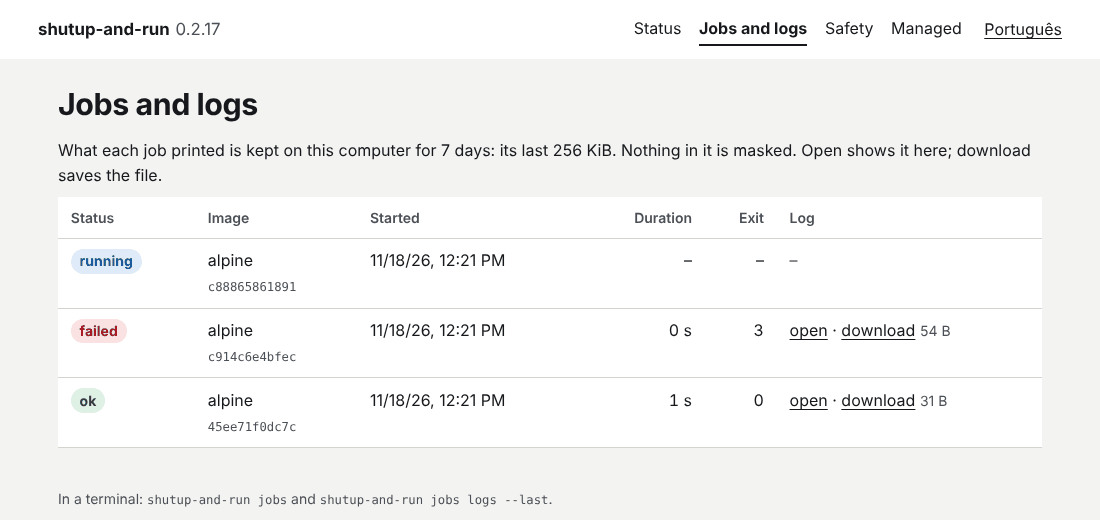
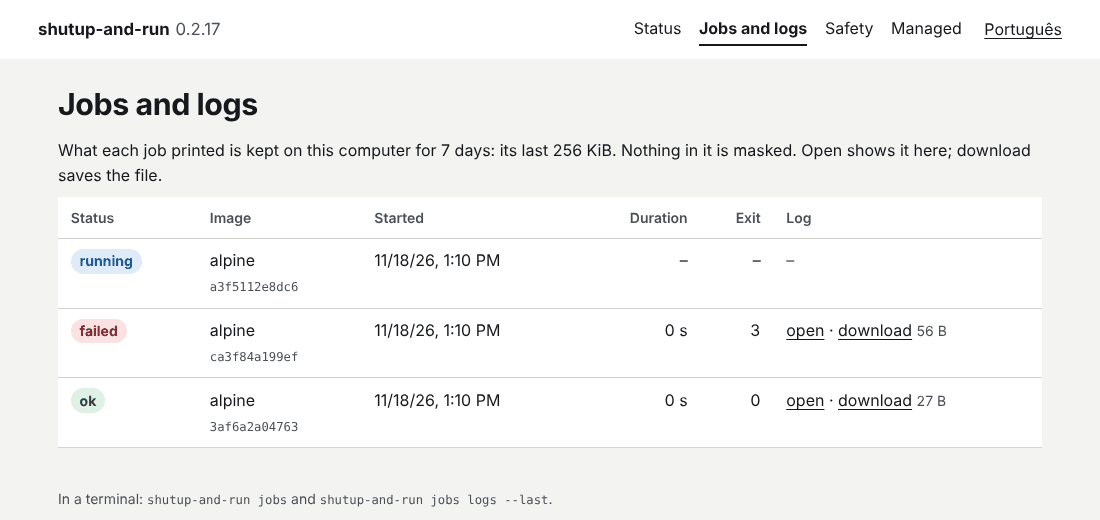
First host-feed line carries the CPU use; scripts/screenshots.sh; 0.2.18 (#33)
The Windows supervisor's first line to the service now takes its second CPU reading one second after the first (feed_cpu), so installs, updates and restarts no longer show SAFETY_HOST_UNKNOWN and ask the owner for an authorization nobody needs; the Windows CI checks it after an install, an update and a rollback. scripts/screenshots.sh regenerates the README's pictures of the local page against Docker with Playwright, refusing a Docker with other shutup-and-run containers and removing only what it made.

Claude-Session: https://claude.ai/code/session_011MRzQGa2n2Ssqv9Yt8TiTW

diff --git a/scripts/screenshots.js b/scripts/screenshots.js
@@ -1,0 +1,36 @@
+// Used by scripts/screenshots.sh: node screenshots.js BASE_URL WORK_DIR OUT_DIR
+const { chromium } = require('playwright');
+
+const [base, work, out] = process.argv.slice(2);
+
+(async () => {
+  const browser = await chromium.launch();
+  const shot = async (lang, name, path, viewport, scheme, options) => {
+    const context = await browser.newContext({
+      viewport,
+      colorScheme: scheme,
+      deviceScaleFactor: 1,
+      httpCredentials: { username: 'admin', password: 'demo-password' },
+    });
+    await context.addCookies([{ name: 'lang', value: lang, url: base }]);
+    const page = await context.newPage();
+    await page.goto(path.startsWith('file://') ? path : base + path);
+    await page.screenshot({ path: `${out}/${lang}-${name}.png`, ...options });
+    await context.close();
+  };
+  const desk = { width: 1100, height: 900 };
+  for (const lang of ['en', 'pt']) {
+    // The top of the status page: the state, the facts, the last jobs.
+    await shot(lang, 'status', '/', desk, 'light', { fullPage: true, clip: { x: 0, y: 0, width: 1100, height: 870 } });
+    await shot(lang, 'jobs', '/local/logs', { width: 1100, height: 520 }, 'light', {});
+    await shot(lang, 'advanced', '/local/advanced', desk, 'light', {});
+    await shot(lang, 'dark', '/', { width: 1100, height: 760 }, 'dark', {});
+    await shot(lang, 'phone', '/', { width: 390, height: 844 }, 'light', {});
+    await shot(lang, 'authorization', `file://${work}/auth-${lang}.html`, { width: 1100, height: 800 }, 'light',
+      { clip: { x: 0, y: 0, width: 1100, height: 540 } });
+  }
+  await browser.close();
+})().catch((err) => {
+  console.error(err);
+  process.exit(1);
+});

diff --git a/src/wsl.rs b/src/wsl.rs
@@ -2729,18 +2729,10 @@ fn run_service(log: &Logger) -> WslResult<Option<i32>> {
     // ten seconds. The thread ends when the service does and the pipe breaks.
     if let Some(mut stdin) = child.stdin.take() {
         std::thread::spawn(move || {
-            // CPU use is the difference between two readings of the totals.
-            let mut before = host_cpu_times();
-            loop {
-                let now = host_cpu_times();
-                let busy = before.zip(now).and_then(|(a, b)| busy_percent(a, b));
-                before = now;
+            feed_cpu(host_cpu_times, std::thread::sleep, |busy| {
                 let line = crate::host::line(&host_feed(busy));
-                if stdin.write_all(line.as_bytes()).is_err() || stdin.flush().is_err() {
-                    break;
-                }
-                std::thread::sleep(crate::host::FEED_EVERY);
-            }
+                stdin.write_all(line.as_bytes()).is_ok() && stdin.flush().is_ok()
+            });
         });
     }
     let a = log.clone();
@@ -2926,6 +2918,32 @@ fn host_cpu_times() -> Option<(u64, u64)> {
 
 /// From two `(idle, total)` readings: the share of the time between them
 /// that the processors were not idle. None when no time passed.
+/// How long apart the first two readings of the CPU totals are.
+const CPU_FIRST_SAMPLE: Duration = Duration::from_secs(1);
+
+/// The CPU use of each host-feed line. It is the difference between two
+/// readings of the totals, so the first line waits for a second reading a
+/// moment after the first: a first line without it reads as "Windows did not
+/// report CPU use" and asks the owner for an authorization nobody needs.
+/// `send` returns false when the service is gone.
+pub(crate) fn feed_cpu(
+    mut read: impl FnMut() -> Option<(u64, u64)>,
+    mut sleep: impl FnMut(Duration),
+    mut send: impl FnMut(Option<u64>) -> bool,
+) {
+    let mut before = read();
+    sleep(CPU_FIRST_SAMPLE);
+    loop {
+        let now = read();
+        let busy = before.zip(now).and_then(|(a, b)| busy_percent(a, b));
+        before = now;
+        if !send(busy) {
+            break;
+        }
+        sleep(crate::host::FEED_EVERY);
+    }
+}
+
 pub(crate) fn busy_percent(before: (u64, u64), now: (u64, u64)) -> Option<u64> {
     let total = now.1.checked_sub(before.1).filter(|total| *total > 0)?;
     let idle = now.0.checked_sub(before.0)?.min(total);
@@ -3974,6 +3992,27 @@ mod tests {
     /// The first defect: the old service kept running, on the old config,
     /// after the install wrote a new one. The stop script returns only when
     /// no process of that name is left.
+    #[test]
+    fn the_first_host_feed_line_already_has_the_cpu_use() {
+        // (idle, total) as GetSystemTimes counts them.
+        let mut readings = vec![Some((0, 0)), Some((50, 100)), Some((80, 200)), None].into_iter();
+        let mut slept = Vec::new();
+        let mut sent = Vec::new();
+        feed_cpu(
+            || readings.next().flatten(),
+            |d| slept.push(d),
+            |busy| {
+                sent.push(busy);
+                sent.len() < 3
+            },
+        );
+        // 50 of 100 idle, then 30 of 100: the first line is not empty.
+        assert_eq!(sent, vec![Some(50), Some(70), None]);
+        assert_eq!(slept[0], CPU_FIRST_SAMPLE);
+        assert!(slept[1..].iter().all(|d| *d == crate::host::FEED_EVERY));
+        assert!(CPU_FIRST_SAMPLE < crate::host::FEED_EVERY);
+    }
+
     #[test]
     fn the_exe_and_the_binary_in_the_distribution_must_be_one_release() {
         let same = version_check("0.2.15", Some("0.2.15"));

diff --git a/src/status.rs b/src/status.rs
@@ -3350,6 +3350,38 @@ mod tests {
         }
     }
 
+    /// Not a check. `scripts/screenshots.sh` runs it to render a state a
+    /// test machine does not reach by itself: a small PC waiting for its
+    /// owner. Writes `auth-en.html` and `auth-pt.html` into the folder named
+    /// by SHUTUP_AND_RUN_SHOTS_DIR, and does nothing without it.
+    #[test]
+    #[ignore]
+    fn render_states_for_screenshots() {
+        use crate::safety::{Admission, Finding, Level, Report};
+        let Ok(dir) = std::env::var("SHUTUP_AND_RUN_SHOTS_DIR") else {
+            return;
+        };
+        let asked = Report {
+            applies: true,
+            level: Level::Warning,
+            admission: Admission::AuthorizationRequired,
+            reasons: vec![Finding {
+                code: crate::safety::SMALL_MACHINE.into(),
+                level: Level::Warning,
+                detail: "7.6 GiB of memory, 2 processors".into(),
+            }],
+            needs_authorization: vec![crate::safety::SMALL_MACHINE.into()],
+            ..Default::default()
+        };
+        for (lang, tag) in [(Lang::En, "en"), (Lang::Pt, "pt")] {
+            let mut v = view(lang, Some((0, 1)), false);
+            v.worker = "DESK-07";
+            v.safety = Some(&asked);
+            v.last_poll = Some((1_794_960_000, "nothing"));
+            std::fs::write(Path::new(&dir).join(format!("auth-{tag}.html")), render(&v)).unwrap();
+        }
+    }
+
     #[test]
     fn the_page_says_the_state_and_whether_the_pc_can_be_turned_off() {
         let idle = render(&view(Lang::Pt, Some((0, 2)), false));

diff --git a/docs/DECISIONS.md b/docs/DECISIONS.md
@@ -480,5 +480,13 @@ The owner named it `shutup-and-run`. It is the whole product: send a job, get a 
 - The settings are grouped by subject, each field with a short label and one line of help. Fields behind the admin login are marked as protected. The list of jobs is the history's last 100 jobs with their logs, plus any log whose job the history no longer has.
 - Nothing else changed: the routes, the forms and their field names, the rules of the page, the config and the contract.
 
-**Cost.** About 43 KB more in the binary. The page is longer on a phone, where tables become stacked rows. The screenshots in `docs/screenshots/local-page/` show it at 0.2.16 data and will age.
+**Cost.** About 43 KB more in the binary. The page is longer on a phone, where tables become stacked rows. The screenshots in `docs/screenshots/local-page/` show it at 0.2.16 data and will age; the README's own come from `scripts/screenshots.sh`, which makes them again.
+
+## The first host-feed line waits a second for the CPU reading (0.2.18)
+
+**Context.** The PC's CPU use is the difference between two readings of the totals `GetSystemTimes` keeps. The supervisor took both readings back to back for its first line, so that line never had a CPU figure. The safety assessment reads a missing figure as "Windows did not report CPU use" (`SAFETY_HOST_UNKNOWN`), a warning, and every install, update and restart asked the owner for an authorization for about ten seconds, until the next line. The doctor that closes an install showed it on every Windows CI run.
+
+**Decision.** The first line is sent one second after the first reading (`CPU_FIRST_SAMPLE`), with the CPU use of that second. Every later line is the same as before, ten seconds apart. The rule that a missing reading warns, never passes, is unchanged.
+
+**Cost.** The service gets its first line from Windows one second later.
 

diff --git a/README.pt-BR.md b/README.pt-BR.md
@@ -415,7 +415,7 @@ Só `image` é obrigatório. Campos desconhecidos são recusados. `job_key` torn
 **Pull.** Com `poll_url` definida, a máquina faz POST nela a cada `poll_interval_secs` (30 segundos, e nunca menos), só quando tem um slot livre, não está pausada e não está com pouca memória ou disco:
 
 ```json
-{"worker": "DESK-07", "os": "windows", "arch": "x86_64", "version": "0.2.17", "max_slots": 1, "free_slots": 1, "cpus": 4, "memory_bytes": 3435973836}
+{"worker": "DESK-07", "os": "windows", "arch": "x86_64", "version": "0.2.18", "max_slots": 1, "free_slots": 1, "cpus": 4, "memory_bytes": 3435973836}
 ```
 
 A resposta é nada (`204`), uma tarefa, `{"task": {...}}`, ou `{"manifest_url": "https://..."}`, que é buscado uma vez e precisa ser uma tarefa. `401` ou `403` quer dizer "ainda não aprovada": o worker não inicia nada e continua perguntando, espaçando até cinco minutos. O servidor decide quais máquinas recebem trabalho; o token do worker é a identidade dele.
@@ -526,6 +526,8 @@ O binário estático que as releases publicam:
 ```bash
 rustup target add x86_64-unknown-linux-musl && sudo apt-get install -y musl-tools build-essential && CC_x86_64_unknown_linux_musl=musl-gcc cargo build --release --locked --target x86_64-unknown-linux-musl
 ```
+
+As imagens da página local neste README saem de `bash scripts/screenshots.sh`: um worker de demonstração com histórico próprio, três tarefas no Docker e o Playwright nos dois idiomas, claro, escuro e no celular. Rode de novo depois de mudar a página.
 
 Uma release é uma tag `v*` enviada a partir do `main`. Ela anexa o binário Linux, o `.exe` do Windows e o `SHA256SUMS`, publica a imagem, e depois roda a instalação de uma linha e o smoke test num runner limpo.
 

diff --git a/README.md b/README.md
@@ -415,7 +415,7 @@ Only `image` is required. Unknown fields are refused. `job_key` makes a retry sa
 **Pull.** With `poll_url` set, the machine POSTs to it every `poll_interval_secs` (30 seconds, and never less), only when it has a free slot, is not paused and is not short of memory or disk:
 
 ```json
-{"worker": "DESK-07", "os": "windows", "arch": "x86_64", "version": "0.2.17", "max_slots": 1, "free_slots": 1, "cpus": 4, "memory_bytes": 3435973836}
+{"worker": "DESK-07", "os": "windows", "arch": "x86_64", "version": "0.2.18", "max_slots": 1, "free_slots": 1, "cpus": 4, "memory_bytes": 3435973836}
 ```
 
 The answer is nothing (`204`), a task, `{"task": {...}}`, or `{"manifest_url": "https://..."}`, which is fetched once and must be a task. `401` or `403` means "not approved yet": the worker starts nothing and keeps asking, backing off to five minutes. The server decides which machines get work; the worker's token is its identity.
@@ -526,6 +526,8 @@ The static binary that releases ship:
 ```bash
 rustup target add x86_64-unknown-linux-musl && sudo apt-get install -y musl-tools build-essential && CC_x86_64_unknown_linux_musl=musl-gcc cargo build --release --locked --target x86_64-unknown-linux-musl
 ```
+
+The pictures of the local page in this README come from `bash scripts/screenshots.sh`: a demo worker on its own history, three jobs against Docker, and Playwright in both languages, light, dark and on a phone. Run it again after a change to the page.
 
 A release is a `v*` tag pushed from `main`. It attaches the Linux binary, the Windows `.exe` and `SHA256SUMS`, publishes the image, then runs the one-line install and the smoke test on a fresh runner.
 

diff --git a/AGENTS.md b/AGENTS.md
@@ -52,7 +52,7 @@ SMOKE_URL=https://127.0.0.1:8787 SMOKE_TOKEN=... bash scripts/smoke.sh
 sudo SMOKE_LOCAL=1 bash scripts/smoke.sh
 ```
 
-The scratch image is the Dockerfile with the musl binary copied to `./shutup-and-run` first. `scripts/size.sh` measures the launcher's RAM and CPU. It is not part of CI. The numbers and the reservation to make for the process are in [docs/SIZING.md](docs/SIZING.md).
+The scratch image is the Dockerfile with the musl binary copied to `./shutup-and-run` first. `scripts/size.sh` measures the launcher's RAM and CPU. It is not part of CI. Neither is `scripts/screenshots.sh`, which makes the README's pictures of the local page again (Docker, and node with Playwright); a change to the page runs it. The numbers and the reservation to make for the process are in [docs/SIZING.md](docs/SIZING.md).
 
 ## Keep it this shape
 

diff --git a/docs/WINDOWS.md b/docs/WINDOWS.md
@@ -327,7 +327,7 @@ For a person following instructions, one command at a time, in PowerShell as the
 Each poll is a `POST` with the token and this body:
 
 ```json
-{"worker": "DESK-07", "os": "windows", "arch": "x86_64", "version": "0.2.17", "max_slots": 1, "free_slots": 1, "cpus": 4, "memory_bytes": 4110753792}
+{"worker": "DESK-07", "os": "windows", "arch": "x86_64", "version": "0.2.18", "max_slots": 1, "free_slots": 1, "cpus": 4, "memory_bytes": 4110753792}
 ```
 
 `cpus` and `memory_bytes` are what the WSL2 VM has, which is what the machine lends. The body has no address, because the worker only knows the VM's private one and could claim any other. The server takes the public address from the connection.
